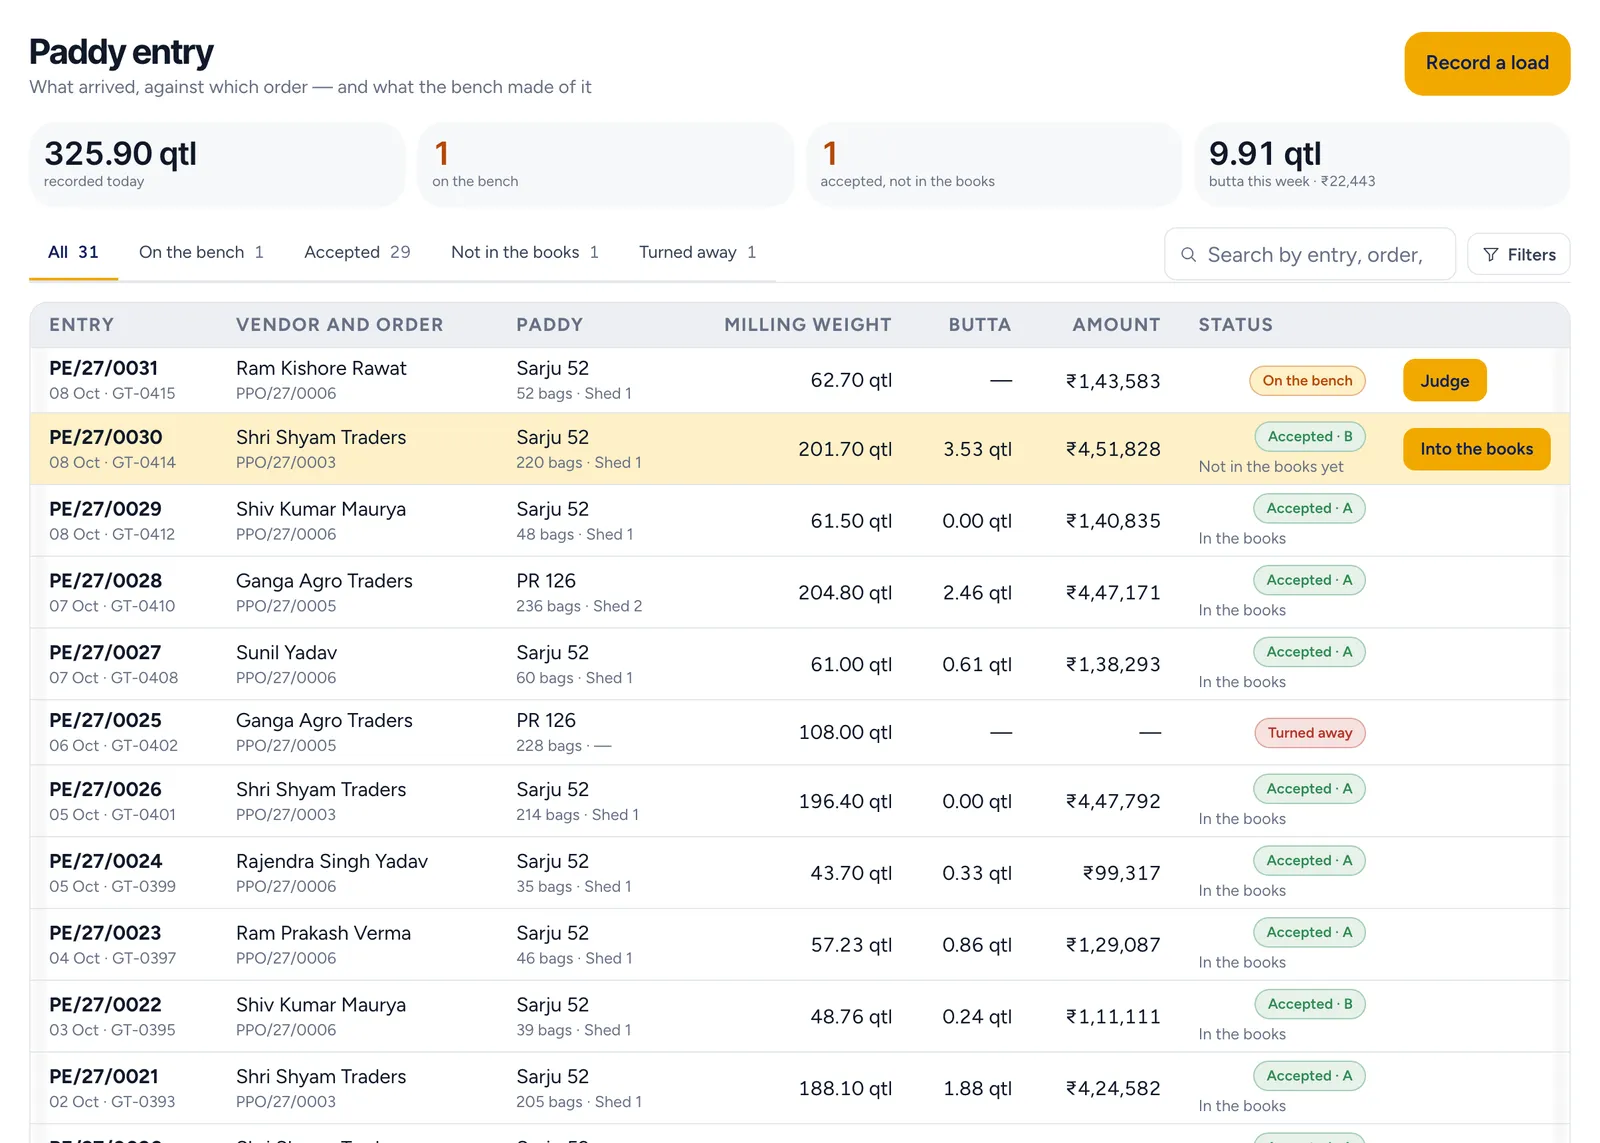
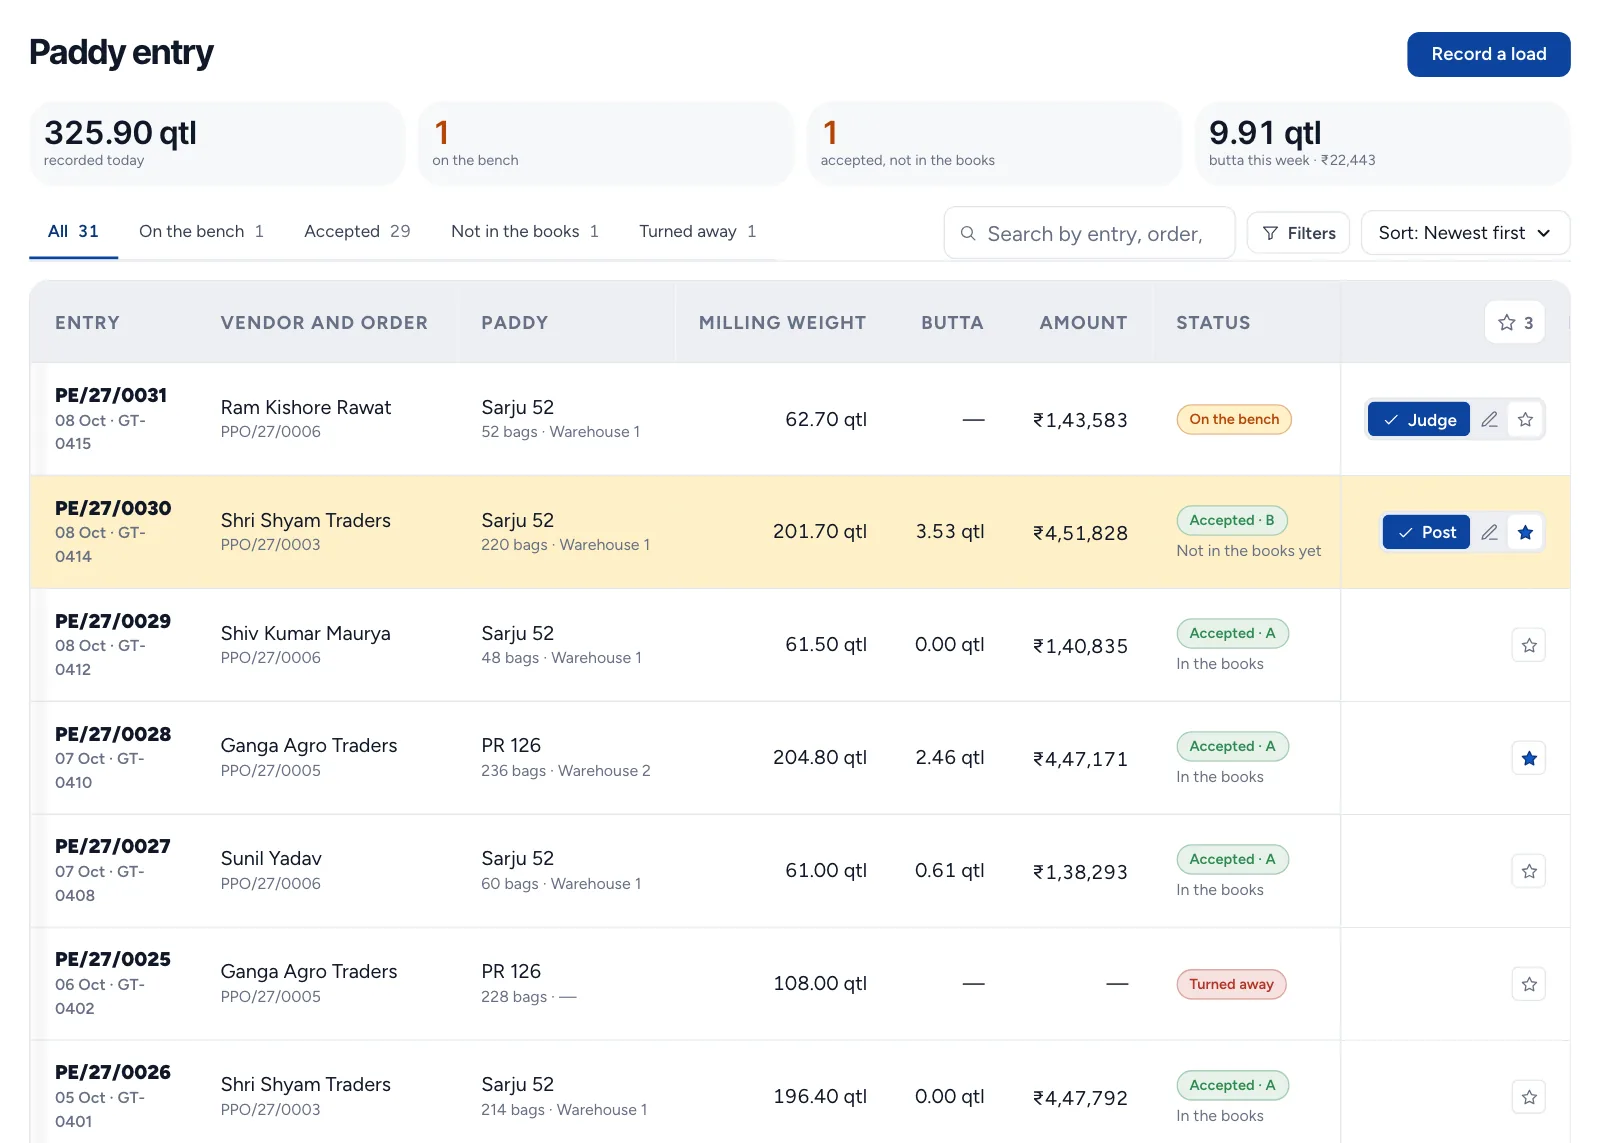
Product screens in the Svasamm One look of 11 Nov 2026
Mithun asked (via session C) for the product pictures to follow the new
designs now, rendered from the canvases. Every app is Svasamm blue; logos keep
their own colours.

- Millingo (canvas v51, 1seLhA8GQtNnUga7t7FfTz): today, CMR owed, the gate and
  batches from its desk shell at 1440x900; the nine journey stages from their
  boards at 1204x860 x1.329, as before.
- The trial balance now comes from the Finance canvas (v24,
  DuL2SAuriFDrGn8HF66smP), where Millingo's books live; its caption says so.
- T4Suite's dashboard from its latest canvas (QUNATp1bRgSWvbM2b4jpxV).
- "Trucks" becomes "lorries" in two captions, the canvases' word.
- Kept: the Millingo phone screen (its board is marked "Not built yet"), the
  People screens (no new People canvas) and Lucoze's bed board.

Approved screenshots re-taken for home and the Millingo page (Docker).
176/176 on the Mac. On Linux 174/176: the two whole-site text checks time out
at 30 s under the full parallel run and pass alone in 9 s.

diff --git a/lib/site.ts b/lib/site.ts
@@ -140,8 +140,10 @@ export const PRODUCTS: NavProduct[] = [
 ];
 
 // Every product screen the site shows — each rendered from that product's LATEST design
-// canvas (Millingo https://claude.ai/artifact/1seLhA8GQtNnUga7t7FfTz, People
-// …/8YzFZYmdsCPPSMUs2wXeMd, T4Suite …/QUNATp1bRgSWvbM2b4jpxV; Lucoze's from its own site),
+// canvas (Millingo https://claude.ai/artifact/1seLhA8GQtNnUga7t7FfTz, Finance
+// …/DuL2SAuriFDrGn8HF66smP, People …/8YzFZYmdsCPPSMUs2wXeMd, T4Suite …/QUNATp1bRgSWvbM2b4jpxV;
+// Lucoze's from its own site). Millingo, Finance and T4Suite re-rendered 11 Nov 2026 to the
+// Svasamm One look: every product app in Svasamm blue, product logos in their own colours.
 // never a screenshot of an older build. One screen per page where it can be: a page about
 // gate weighing shows the gate, not the same dashboard as every other page.
 export type Screen = { src: string; caption: string };
@@ -149,9 +151,9 @@ const S = (file: string, caption: string): Screen => ({ src: `/screens/${file}.w
 export const SCREENS = {
   millingoToday: S("millingo-today", "Millingo · the owner's morning"),
   millingoCmr: S("millingo-cmr", "Millingo · CMR owed to the government"),
-  millingoGate: S("millingo-gate", "Millingo · trucks at the gate"),
+  millingoGate: S("millingo-gate", "Millingo · lorries at the gate"),
   millingoBatches: S("millingo-batches", "Millingo · batches on the floor"),
-  millingoReports: S("millingo-reports", "Millingo · reports and the trial balance"),
+  millingoReports: S("millingo-reports", "Millingo’s books in Svasamm Finance · the trial balance"),
   millingoPhone: S("millingo-phone", "Millingo on the owner's phone"),
   peopleMonthEnd: S("people-monthend", "Svasamm People · month end"),
   peoplePayroll: S("people-payroll", "Svasamm People · payroll"),

diff --git a/lib/journeys.ts b/lib/journeys.ts
@@ -25,7 +25,7 @@ const millingo: Journey = {
     { id: "gate", step: "1", title: "A lorry at the gate", who: "The gate clerk",
       does: "Raises a gate pass for the lorry — the party, the driver, the paddy — or turns it away.",
       rule: "A pass with no driver is refused, and so is a party that does not supply paddy, or a lorry that is already inside.",
-      screen: "/journeys/millingo/gate.webp", alt: "Trucks at the gate: lorries waiting, weighing, unloading and leaving" },
+      screen: "/journeys/millingo/gate.webp", alt: "Lorries at the gate: waiting, weighing, unloading and leaving" },
     { id: "weigh", step: "2", title: "On the weighbridge", who: "The kanta operator",
       does: "Records the loaded and the empty weight; the difference is the milling weight everything after it is paid on.",
       rule: "An empty weight equal to or above the loaded weight is refused.",
